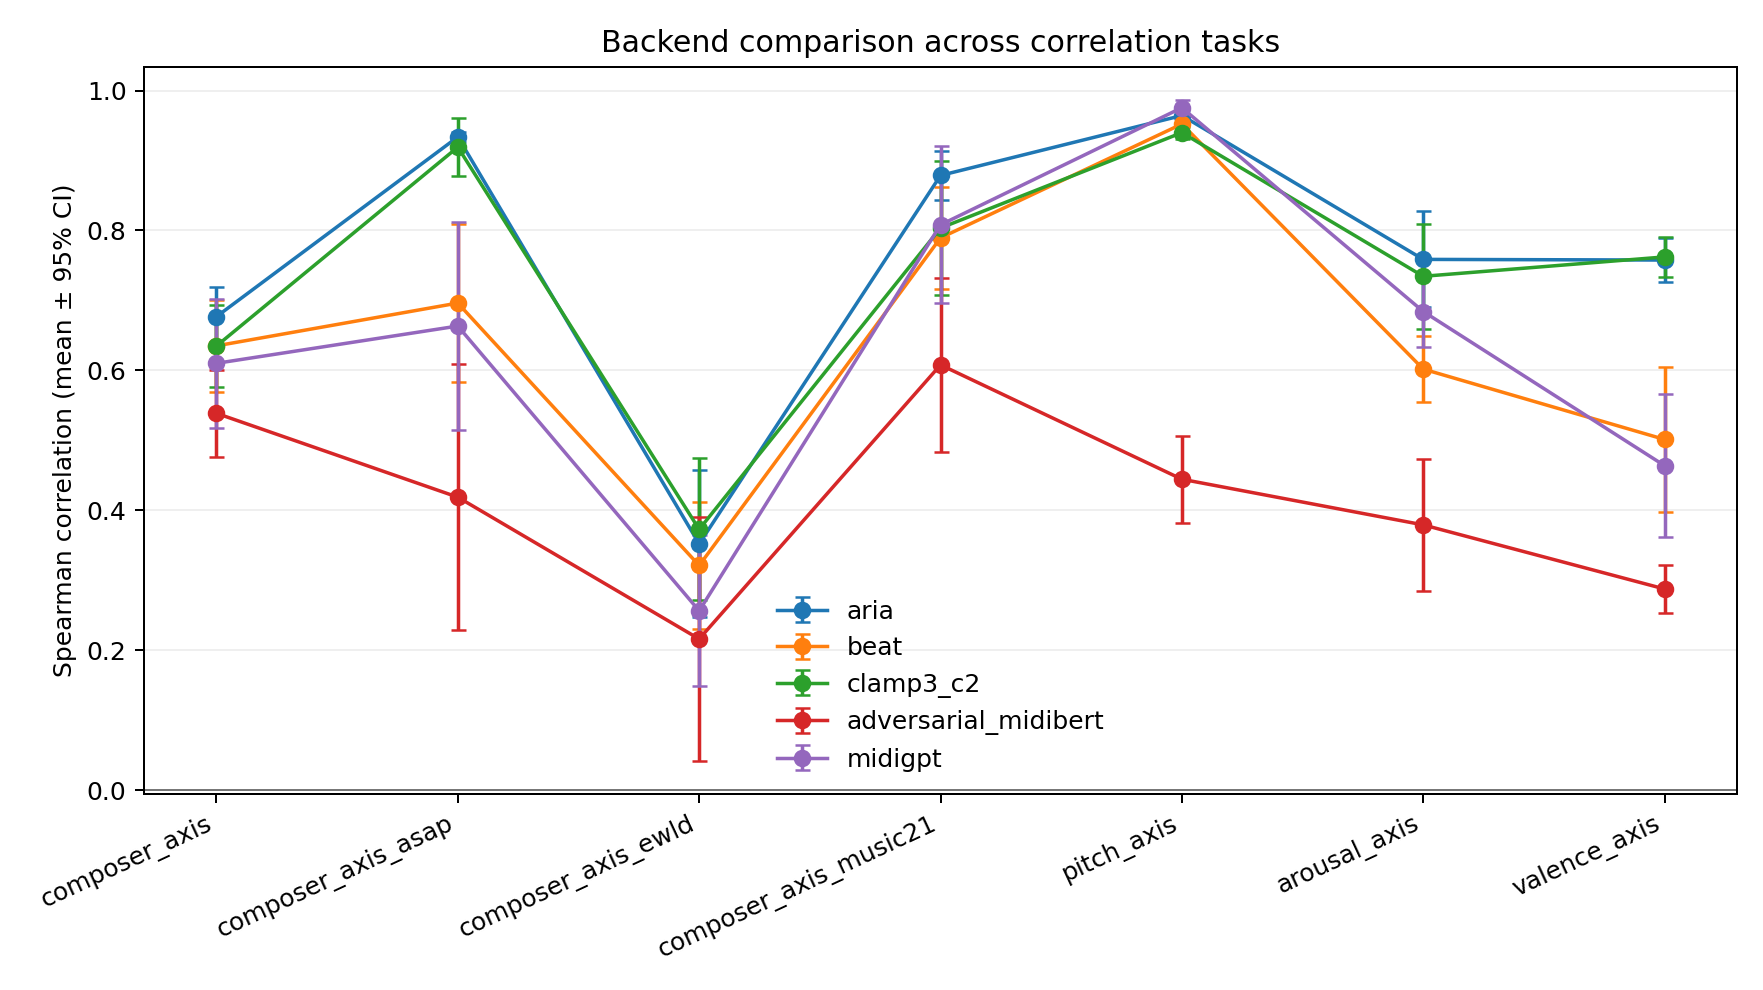
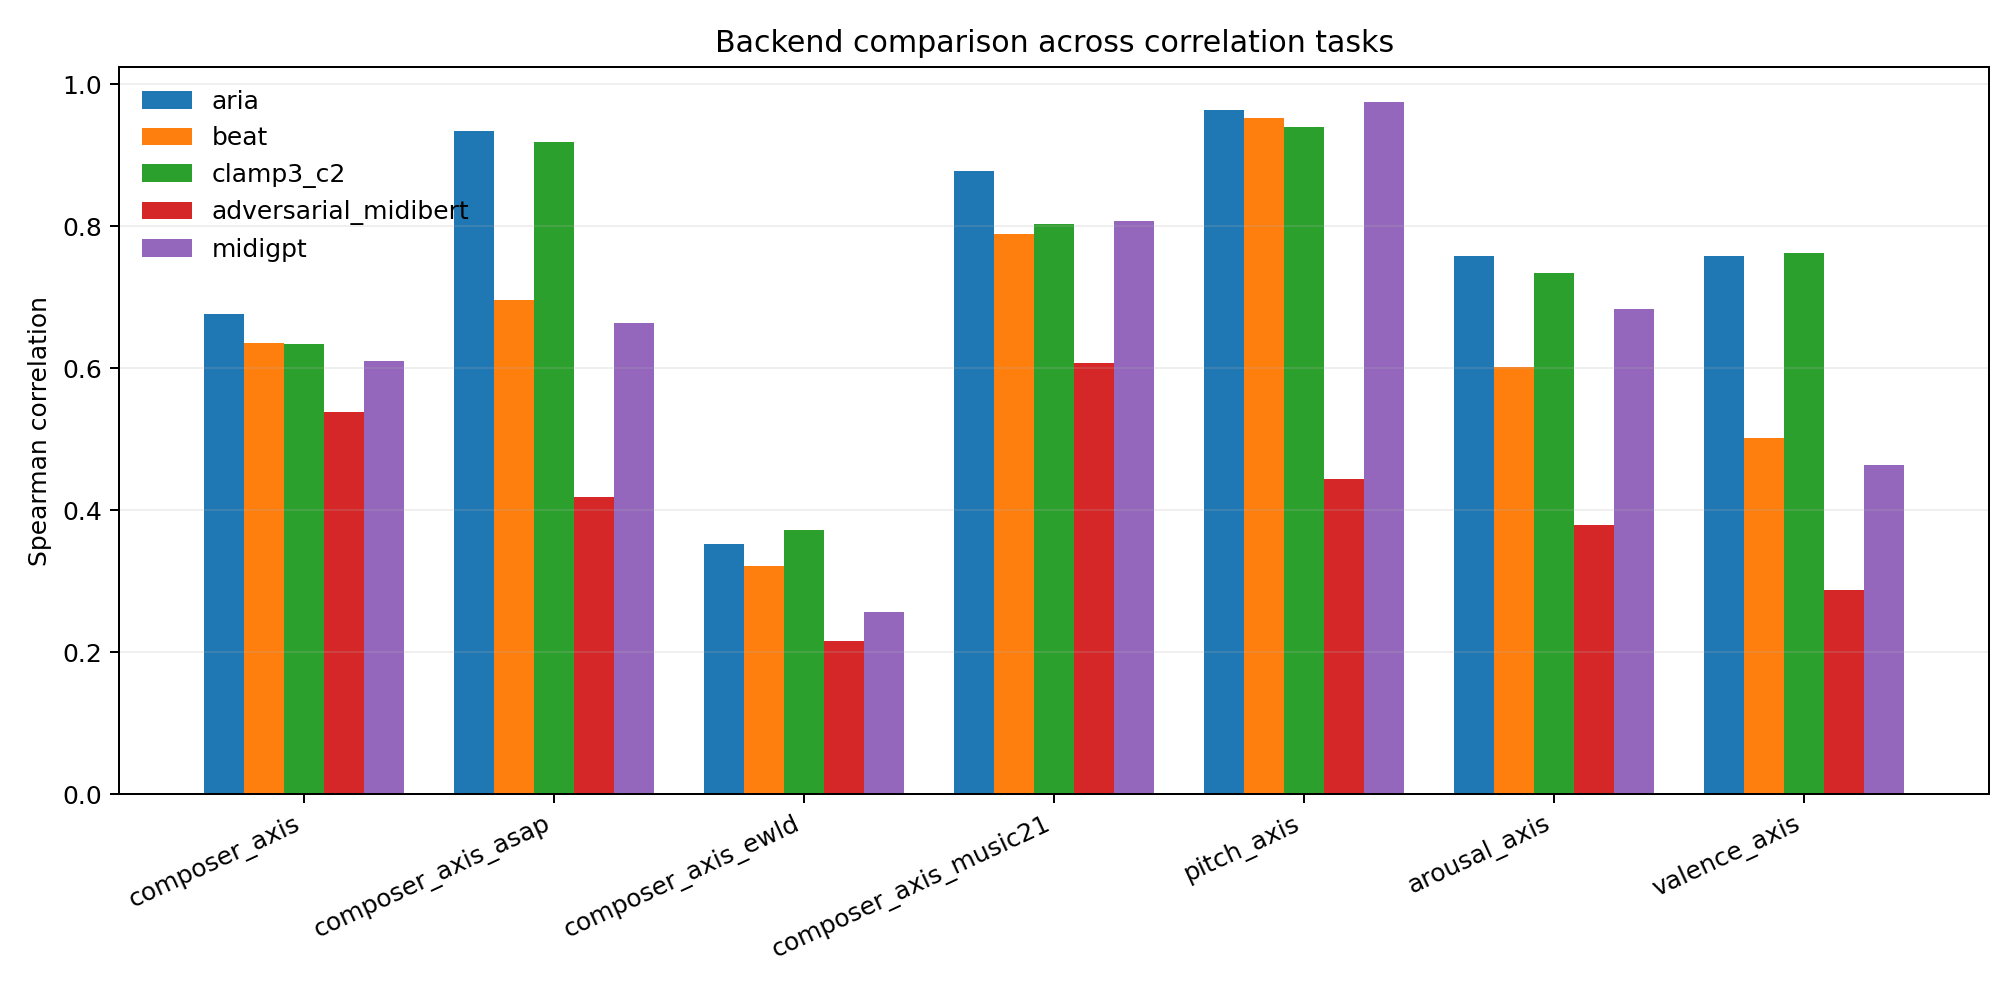
Plot backend comparison as grouped bars without error bars

diff --git a/experiments/common/comparison_report.py b/experiments/common/comparison_report.py
@@ -458,11 +458,11 @@ def _write_aggregate_spearman(output_dir: Path, report_rows, experiments, backen
     experiments = [experiment for experiment in experiments if report_rows.get(experiment)]
     if not experiments:
         return
-    fig, ax = plt.subplots(figsize=(max(9, len(experiments) * 1.4), 5.5))
+    fig, ax = plt.subplots(figsize=(max(9, len(experiments) * 1.6), 5.5))
     positions = np.arange(len(experiments), dtype=float)
+    present = []
     for backend in backends:
         values = []
-        errors = []
         for experiment in experiments:
             row = next(
                 (
@@ -475,20 +475,26 @@ def _write_aggregate_spearman(output_dir: Path, report_rows, experiments, backen
             if row is None:
                 break
             values.append(float(row["value"]))
-            errors.append(float(row["ci95"] or 0.0))
         else:
-            ax.errorbar(
-                positions,
-                values,
-                yerr=errors,
-                marker="o",
-                linewidth=1.4,
-                capsize=3,
-                label=backend,
-            )
+            present.append((backend, values))
+    if not present:
+        plt.close(fig)
+        return
+
+    width = 0.8 / len(present)
+    colors = plt.get_cmap("tab10").colors
+    for index, (backend, values) in enumerate(present):
+        offset = (index - (len(present) - 1) / 2) * width
+        ax.bar(
+            positions + offset,
+            values,
+            width,
+            label=backend,
+            color=colors[index % len(colors)],
+        )
     ax.set_xticks(positions)
     ax.set_xticklabels(experiments, rotation=25, ha="right")
-    ax.set_ylabel("Spearman correlation (mean ± 95% CI)")
+    ax.set_ylabel("Spearman correlation")
     ax.axhline(0.0, color="#777777", linewidth=0.8)
     ax.set_title("Backend comparison across correlation tasks")
     ax.grid(axis="y", alpha=0.2)
